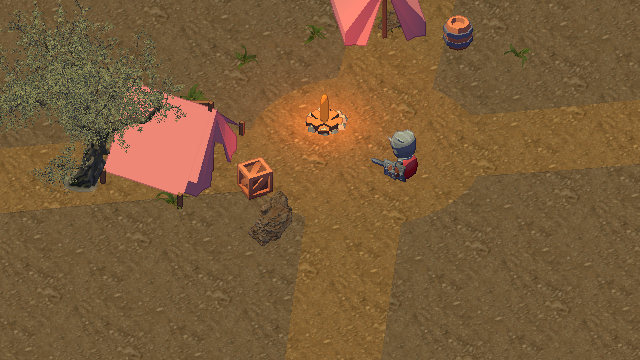
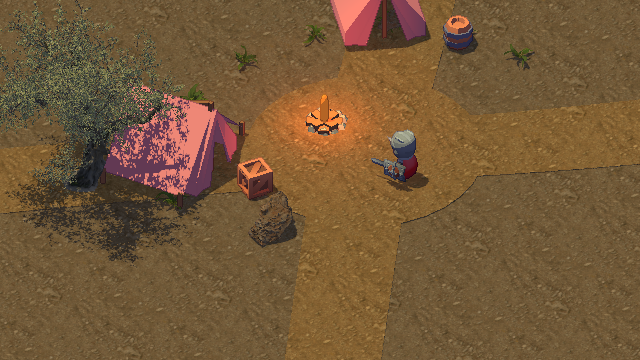
Correct planar reflection UVs, restore light shadows and add fading snow footprints

diff --git a/Assets/Editor/ReflectionShadowVerification.cs b/Assets/Editor/ReflectionShadowVerification.cs
@@ -1,0 +1,53 @@
+using System.IO;
+using System.Linq;
+using UnityEditor.SceneManagement;
+using UnityEngine;
+namespace PixelArtLab.Editor
+{
+    public static class ReflectionShadowVerification
+    {
+        public static void Run()
+        {
+            EditorSceneManager.OpenScene(DetailedWoodlandBuilder.ScenePath);var env=Object.FindFirstObjectByType<WorldEnvironment>();env.SetWeather(ValleyWeather.Rain,true);env.hour=13;env.Apply();
+            Debug.Log($"SHADOW_DIAG distance={QualitySettings.shadowDistance} quality={QualitySettings.shadows} light={env.sun.shadows} camera={env.worldCamera.transform.position}");
+            foreach(var r in env.player.GetComponentsInChildren<Renderer>())Debug.Log($"PLAYER_RENDER {r.name} layer={r.gameObject.layer} enabled={r.enabled} shadows={r.shadowCastingMode} bounds={r.bounds}");
+            var reflection=Object.FindObjectsByType<DetailWaterReflection>(FindObjectsSortMode.None).First(r=>r.textureProperty=="_PuddleReflection");
+            env.worldCamera.aspect=640f/360;env.worldCamera.orthographicSize=5;env.worldCamera.transform.position=env.player.transform.position+Vector3.up-env.worldCamera.transform.forward*45;reflection.Refresh();
+            var rt=reflection.ReflectionTexture;var before=RenderTexture.active;RenderTexture.active=rt;var t=new Texture2D(rt.width,rt.height,TextureFormat.RGB24,false);t.ReadPixels(new Rect(0,0,rt.width,rt.height),0,0);t.Apply();File.WriteAllBytes("Previews/34-Reflection-Diagnostic.png",t.EncodeToPNG());Object.DestroyImmediate(t);RenderTexture.active=before;
+            // Locate an isolated emissive marker's actual texture coordinates versus CPU projection.
+            var marker=GameObject.CreatePrimitive(PrimitiveType.Cube);marker.transform.position=env.player.transform.position+new Vector3(1,2,0);marker.transform.localScale=Vector3.one*.25f;
+            var mat=new Material(Shader.Find("Unlit/Color"));mat.color=Color.magenta;marker.GetComponent<Renderer>().sharedMaterial=mat;reflection.Refresh();
+            RenderTexture.active=rt;t=new Texture2D(rt.width,rt.height,TextureFormat.RGB24,false);t.ReadPixels(new Rect(0,0,rt.width,rt.height),0,0);t.Apply();var pixels=t.GetPixels32();float x=0,y=0,n=0;
+            for(int j=0;j<rt.height;j++)for(int i=0;i<rt.width;i++){var c=pixels[j*rt.width+i];if(c.r>200&&c.b>200&&c.g<80){x+=i;y+=j;n++;}}
+            var mirror=Resources.FindObjectsOfTypeAll<Camera>().First(c=>c.name=="Detail Water Reflection Camera"&&c.targetTexture==rt);var cpu=mirror.WorldToViewportPoint(marker.transform.position);var gpu=GL.GetGPUProjectionMatrix(mirror.projectionMatrix,true)*mirror.worldToCameraMatrix*new Vector4(marker.transform.position.x,marker.transform.position.y,marker.transform.position.z,1);
+            Debug.Log($"REFLECTION_UV actual=({x/n/rt.width},{y/n/rt.height}) cpu={cpu} gpu=({gpu.x/gpu.w*.5f+.5f},{gpu.y/gpu.w*.5f+.5f}) count={n}");
+            var corrected=GL.GetGPUProjectionMatrix(mirror.projectionMatrix,false)*mirror.worldToCameraMatrix*new Vector4(marker.transform.position.x,marker.transform.position.y,marker.transform.position.z,1);
+            if(n<1||Mathf.Abs(x/n/rt.width-(corrected.x/corrected.w*.5f+.5f))>.01f||Mathf.Abs(y/n/rt.height-(corrected.y/corrected.w*.5f+.5f))>.01f)throw new System.Exception("Reflection coordinate calibration failed");
+            RenderTexture.active=before;Object.DestroyImmediate(t);Object.DestroyImmediate(marker);Object.DestroyImmediate(mat);
+            reflection.Refresh();var original=Read(rt);var character=env.player.GetComponentsInChildren<Renderer>();foreach(var r in character)r.enabled=false;reflection.Refresh();int characterPixels=Difference(original,Read(rt));foreach(var r in character)r.enabled=true;
+            if(characterPixels<50)throw new System.Exception("Character missing from reflection");
+            env.SetWeather(ValleyWeather.Clear,true);env.hour=10;env.Apply();var target=new RenderTexture(640,360,24);target.Create();env.worldCamera.targetTexture=target;
+            var shadows=Render(env.worldCamera);foreach(var r in character)r.shadowCastingMode=UnityEngine.Rendering.ShadowCastingMode.Off;int playerShadow=Difference(shadows,Render(env.worldCamera));foreach(var r in character)r.shadowCastingMode=UnityEngine.Rendering.ShadowCastingMode.On;
+            var tree=GameObject.Find("Poly Haven Detailed Woodland").GetComponentsInChildren<Renderer>().Where(r=>r.name.Contains("island_tree")).ToArray();foreach(var r in tree)r.shadowCastingMode=UnityEngine.Rendering.ShadowCastingMode.Off;int treeShadow=Difference(shadows,Render(env.worldCamera));foreach(var r in tree)r.shadowCastingMode=UnityEngine.Rendering.ShadowCastingMode.On;
+            if(playerShadow<10||treeShadow<100)throw new System.Exception($"Shadow missing: character={playerShadow} tree={treeShadow}");
+            env.hour=0;env.Apply();if(!env.torches.Any(l=>l&&l.shadows!=LightShadows.None))throw new System.Exception("No local torch shadow enabled");var night=Render(env.worldCamera);foreach(var l in env.torches)if(l)l.shadows=LightShadows.None;int torchShadow=Difference(night,Render(env.worldCamera));if(torchShadow<10)throw new System.Exception("Torch shadows not visible: "+torchShadow);env.hour=10;env.Apply();
+            OpenWorldSceneBuilder.Capture(env.worldCamera,"Previews/35-Character-Tree-Shadows.png");env.worldCamera.targetTexture=null;target.Release();Object.DestroyImmediate(target);
+            env.SetWeather(ValleyWeather.Rain,true);env.hour=13;env.Apply();Vector3 toward= -env.worldCamera.transform.forward;toward.y=0;toward.Normalize();bool found=false;
+            for(float px=-10;px<10&&!found;px+=.5f)for(float pz=-10;pz<10&&!found;pz+=.5f)
+            {
+                Vector3 p=new Vector3(px,OpenWorldSceneBuilder.Height(px,pz)+.1f,pz);if(!PuddleSurface.Ground(p,out var hit)||PuddleSurface.Coverage(hit.point,hit.normal,1,0)<.7f)continue;
+                bool fits=true;for(float d=.5f;d<=2;d+=.5f){var q=hit.point+toward*d;if(!PuddleSurface.Ground(q,out var h)||PuddleSurface.Coverage(h.point,h.normal,1,0)<.6f)fits=false;}
+                if(fits){env.player.transform.position=hit.point+Vector3.up*.04f;found=true;}
+            }
+            if(!found)throw new System.Exception("No pool suitable for character reflection test");
+            env.worldCamera.orthographicSize=4.5f;env.worldCamera.transform.position=env.player.transform.position+Vector3.up*.8f-env.worldCamera.transform.forward*45;
+            target=new RenderTexture(640,360,24);target.Create();env.worldCamera.targetTexture=target;reflection.Refresh();var surfaceWith=Render(env.worldCamera);
+            foreach(var r in character)r.enabled=false;reflection.Refresh();foreach(var r in character)r.enabled=true;int visibleCharacter=Difference(surfaceWith,Render(env.worldCamera));if(visibleCharacter<50)throw new System.Exception("Character reflection absent on actual puddle surface: "+visibleCharacter);
+            reflection.Refresh();OpenWorldSceneBuilder.Capture(env.worldCamera,"Previews/37-Corrected-Character-Reflection.png");env.worldCamera.targetTexture=null;target.Release();Object.DestroyImmediate(target);
+            File.WriteAllText("Previews/Reflection-Shadow-Verification.txt",$"REFLECTION_SHADOW_SUCCESS\nReflection marker coordinates match within 1%: PASS\nCharacter reflection texture pixels: {characterPixels}\nCharacter reflection on actual puddle pixels: {visibleCharacter}\nCharacter shadow pixels: {playerShadow}\nTree shadow pixels: {treeShadow}\nNight torch shadow pixels: {torchShadow}\nShadow distance: {QualitySettings.shadowDistance}m\nNO PLAYER BUILD\n");Debug.Log("REFLECTION_SHADOW_SUCCESS");
+        }
+        static Color32[] Read(RenderTexture rt){var old=RenderTexture.active;RenderTexture.active=rt;var t=new Texture2D(rt.width,rt.height,TextureFormat.RGB24,false);t.ReadPixels(new Rect(0,0,rt.width,rt.height),0,0);t.Apply();var p=t.GetPixels32();Object.DestroyImmediate(t);RenderTexture.active=old;return p;}
+        static Color32[] Render(Camera c){c.Render();return Read(c.targetTexture);}
+        static int Difference(Color32[] a,Color32[] b)=>a.Zip(b,(x,y)=>Mathf.Abs(x.r-y.r)+Mathf.Abs(x.g-y.g)+Mathf.Abs(x.b-y.b)>8?1:0).Sum();
+    }
+}

diff --git a/Assets/Scripts/SnowFootprints.cs b/Assets/Scripts/SnowFootprints.cs
@@ -1,0 +1,79 @@
+using System.Collections.Generic;
+using UnityEngine;
+using UnityEngine.Rendering;
+
+namespace PixelArtLab
+{
+    [DefaultExecutionOrder(135)]
+    public sealed class SnowFootprints : MonoBehaviour
+    {
+        public ExplorerMotor player;
+        public WorldEnvironment environment;
+        [Range(0,1)]public float minimumSnow=.4f;
+        public float lifetime=18;
+        public int EmittedCount {get;private set;}
+        struct Print {public Vector3 position,normal,forward;public float birth;}
+        readonly Print[] prints=new Print[128];
+        readonly List<Vector3> vertices=new List<Vector3>();readonly List<Color> colors=new List<Color>();readonly List<int> indices=new List<int>();
+        Mesh mesh;Material material;int next,foot;float distance;Vector3 previous;bool initialized,grounded;
+        void Ensure()
+        {
+            if(mesh)return;
+            mesh=new Mesh{name="Fading snow boot impressions"};mesh.MarkDynamic();
+            var filter=GetComponent<MeshFilter>();if(!filter)filter=gameObject.AddComponent<MeshFilter>();filter.sharedMesh=mesh;
+            var renderer=GetComponent<MeshRenderer>();if(!renderer)renderer=gameObject.AddComponent<MeshRenderer>();
+            material=new Material(Shader.Find("PixelArtLab/Weather Particles")){hideFlags=HideFlags.HideAndDontSave};renderer.sharedMaterial=material;renderer.shadowCastingMode=ShadowCastingMode.Off;renderer.receiveShadows=false;gameObject.layer=13;
+            for(int i=0;i<prints.Length;i++)prints[i].birth=-1000;
+        }
+        void LateUpdate()
+        {
+            Ensure();if(!player||!environment)return;
+            Vector3 current=player.transform.position,delta=current-previous;delta.y=0;
+            if(!initialized){previous=current;grounded=player.Grounded;initialized=true;delta=Vector3.zero;}
+            if(delta.magnitude>4)distance=0;
+            else if(player.Grounded)
+            {
+                Vector3 direction=delta.sqrMagnitude>.0001f?delta.normalized:player.visual.forward;
+                if(!grounded){TryPlace(current-Vector3.Cross(Vector3.up,direction)*.14f,direction);TryPlace(current+Vector3.Cross(Vector3.up,direction)*.14f,direction);}
+                if(player.HorizontalSpeed>.3f&&delta.magnitude>.001f)
+                {
+                    distance+=delta.magnitude;
+                    if(distance>(player.HorizontalSpeed>5?1.1f:.8f))
+                    {distance=0;TryPlace(current+Vector3.Cross(Vector3.up,direction)*((foot++%2==0?1:-1)*.14f),direction);}
+                }
+                else distance=0;
+            }
+            previous=current;grounded=player.Grounded;Refresh(Time.time);
+        }
+        public bool TryPlace(Vector3 position,Vector3 forward)
+        {
+            if(!environment||environment.snowCover<minimumSnow||!PuddleSurface.Ground(position,out var hit)||hit.normal.y<.88f)return false;
+            Ensure();prints[next]=new Print{position=hit.point+hit.normal*.058f,normal=hit.normal,forward=Vector3.ProjectOnPlane(forward,hit.normal).normalized,birth=Time.time};next=(next+1)%prints.Length;EmittedCount++;return true;
+        }
+        public void Refresh(float now)
+        {
+            Ensure();vertices.Clear();colors.Clear();indices.Clear();
+            if(!environment)return;
+            foreach(var print in prints)
+            {
+                float age=now-print.birth;if(age<0||age>=lifetime)continue;
+                float opacity=(1-Mathf.SmoothStep(0,1,Mathf.InverseLerp(4,lifetime,age)))*Mathf.SmoothStep(0,1,Mathf.InverseLerp(.15f,.4f,environment.snowCover));
+                if(opacity<.005f)continue;
+                Vector3 forward=print.forward.sqrMagnitude>.5f?print.forward:Vector3.forward,right=Vector3.Cross(print.normal,forward).normalized;
+                Color color=new Color(.32f,.43f,.56f,opacity*.85f);
+                Vector3 toe=print.position+forward*.08f;
+                for(int i=0;i<10;i++)
+                {
+                    float a=i*Mathf.PI/5,b=(i+1)*Mathf.PI/5;
+                    Triangle(toe,toe+right*(Mathf.Cos(a)*.09f)+forward*(Mathf.Sin(a)*.135f),toe+right*(Mathf.Cos(b)*.09f)+forward*(Mathf.Sin(b)*.135f),color);
+                }
+                Vector3 heel=print.position-forward*.13f;Vector3 x=right*.07f,y=forward*.055f;
+                Triangle(heel-x-y,heel+x-y,heel+x+y,color);Triangle(heel-x-y,heel+x+y,heel-x+y,color);
+            }
+            mesh.Clear();mesh.SetVertices(vertices);mesh.SetColors(colors);mesh.SetTriangles(indices,0);mesh.RecalculateBounds();
+        }
+        void Triangle(Vector3 a,Vector3 b,Vector3 c,Color color)
+        {int i=vertices.Count;vertices.Add(a);vertices.Add(b);vertices.Add(c);colors.Add(color);colors.Add(color);colors.Add(color);indices.Add(i);indices.Add(i+1);indices.Add(i+2);}
+        void OnDisable(){if(mesh){if(Application.isPlaying)Destroy(mesh);else DestroyImmediate(mesh);}if(material){if(Application.isPlaying)Destroy(material);else DestroyImmediate(material);}mesh=null;material=null;initialized=false;}
+    }
+}

diff --git a/Assets/Editor/SnowFootprintVerification.cs b/Assets/Editor/SnowFootprintVerification.cs
@@ -1,0 +1,41 @@
+using System;
+using System.IO;
+using System.Linq;
+using UnityEditor;
+using UnityEditor.SceneManagement;
+using UnityEngine;
+namespace PixelArtLab.Editor
+{
+    public static class SnowFootprintVerification
+    {
+        static int stage,baseline;static float started;static double deadline;static WorldEnvironment env;static SnowFootprints prints;static ExplorerMotor player;
+        public static void Play(){EditorSceneManager.OpenScene(DetailedWoodlandBuilder.ScenePath);SessionState.SetBool("SnowPrint.Verify",true);EditorApplication.isPlaying=true;}
+        [InitializeOnLoadMethod]static void Resume(){if(SessionState.GetBool("SnowPrint.Verify",false)){stage=0;deadline=EditorApplication.timeSinceStartup+60;EditorApplication.update+=Tick;}}
+        static void Require(bool c,string message){if(!c)throw new Exception(message);}
+        static void Tick()
+        {
+            if(!Application.isPlaying)return;
+            try
+            {
+                Require(EditorApplication.timeSinceStartup<deadline,"Snow test timeout stage "+stage);
+                if(stage==0)
+                {
+                    env=UnityEngine.Object.FindFirstObjectByType<WorldEnvironment>();prints=UnityEngine.Object.FindFirstObjectByType<SnowFootprints>();player=env.player;Require(prints,"Footprint component missing");
+                    env.runClock=false;env.hour=13;env.SetWeather(ValleyWeather.Snow,true);env.snowCover=.39f;env.Apply();Require(!prints.TryPlace(player.transform.position,Vector3.forward),"Marks below threshold");env.snowCover=.4f;env.Apply();Require(prints.TryPlace(player.transform.position,Vector3.forward),"No mark at 40% snow");
+                    env.snowCover=.95f;env.Apply();player.externalControl=true;player.externalMove=Vector2.zero;player.Teleport(new Vector3(1,OpenWorldSceneBuilder.Height(1,-12)+.1f,-12));started=Time.time;stage=1;
+                }
+                else if(stage==1&&Time.time-started>.8f){baseline=prints.EmittedCount;player.externalMove=Vector2.up;started=Time.time;stage=2;}
+                else if(stage==2&&Time.time-started>2.2f)
+                {
+                    player.externalMove=Vector2.zero;Require(prints.EmittedCount>=baseline+6,"Walking did not leave a trail");prints.Refresh(Time.time);var mesh=prints.GetComponent<MeshFilter>().sharedMesh;Require(mesh.vertexCount>100,"Footprints not rendered");
+                    OpenWorldSceneBuilder.Capture(env.worldCamera,"Previews/36-Snow-Footprint-Trail.png");float initial=mesh.colors.Average(c=>c.a);prints.Refresh(Time.time+11);Require(mesh.colors.Length>0&&mesh.colors.Average(c=>c.a)<initial*.8f,"Prints did not fade");prints.Refresh(Time.time+prints.lifetime+1);Require(mesh.vertexCount==0,"Expired marks remain");
+                    env.SetWeather(ValleyWeather.Clear,true);prints.Refresh(Time.time);Require(mesh.vertexCount==0&&!prints.TryPlace(player.transform.position,Vector3.forward),"Marks survive melted snow");
+                    var display=Resources.FindObjectsOfTypeAll<Camera>().FirstOrDefault(c=>c.name=="Pixel Display Clear Camera");Require(display&&display.enabled&&!display.targetTexture,"No display camera while pixel camera renders offscreen");
+                    Finish(true,"40% threshold; walking trail; gradual fade and expiry; melting removes marks; display camera active: PASS");
+                }
+            }
+            catch(Exception e){Finish(false,e.ToString());}
+        }
+        static void Finish(bool success,string message){EditorApplication.update-=Tick;SessionState.SetBool("SnowPrint.Verify",false);string result=(success?"SNOW_FOOTPRINT_SUCCESS":"SNOW_FOOTPRINT_FAILED")+"\n"+message+"\nNO PLAYER BUILD\n";File.WriteAllText("Previews/Snow-Footprint-Verification.txt",result);Debug.Log(result);EditorApplication.isPlaying=false;EditorApplication.Exit(success?0:1);}
+    }
+}

diff --git a/Assets/Scripts/WorldEnvironment.cs b/Assets/Scripts/WorldEnvironment.cs
@@ -26,9 +26,13 @@ namespace PixelArtLab
         public string ClockLabel=>$"{Mathf.FloorToInt(hour):00}:{Mathf.FloorToInt((hour%1)*60):00}";
         void OnEnable()
         {
+            // Follow camera sits 45m away; a 42m shadow distance cannot reach the ground.
+            QualitySettings.shadows=ShadowQuality.All;QualitySettings.shadowDistance=120;
+            QualitySettings.shadowResolution=ShadowResolution.VeryHigh;QualitySettings.shadowCascades=4;QualitySettings.pixelLightCount=4;
             if(!sun)sun=RenderSettings.sun;
             if(!worldCamera)worldCamera=Camera.main;
             if(sun){originalSunColor=sun.color;originalIntensity=sun.intensity;originalRotation=sun.transform.rotation;cached=true;}
+            if(sun){sun.shadows=LightShadows.Hard;sun.shadowStrength=.9f;sun.shadowBias=.025f;sun.shadowNormalBias=.10f;sun.renderMode=LightRenderMode.ForcePixel;}
             if(worldCamera)originalBackground=worldCamera.backgroundColor;
             Apply();
         }
@@ -86,7 +90,14 @@ namespace PixelArtLab
             Shader.SetGlobalFloat("_LabWaterTime",animationTime);
             Shader.SetGlobalFloat("_LabWaterMotion",waterEnabled?1:0);
             Shader.SetGlobalFloat("_LabCloudCover",Mathf.Clamp01(.12f+cloud));
-            if(torches!=null)foreach(var torch in torches)if(torch)torch.intensity=Mathf.Lerp(4.0f,2.1f,Daylight);
+            int localShadowLights=0;
+            if(torches!=null)foreach(var torch in torches)if(torch)
+            {
+                torch.intensity=Mathf.Lerp(4.0f,2.1f,Daylight);
+                bool nearby=player&&Vector3.Distance(player.transform.position,torch.transform.position)<torch.range+2;
+                bool cast=nearby&&localShadowLights<2;if(cast)localShadowLights++;
+                torch.shadows=cast?LightShadows.Hard:LightShadows.None;torch.shadowStrength=.85f;torch.shadowBias=.025f;torch.shadowNormalBias=.1f;torch.shadowCustomResolution=512;
+            }
             Color background=Color.Lerp(new Color(.035f,.055f,.105f),new Color(.32f,.43f,.48f),Daylight);
             background=Color.Lerp(background,new Color(.35f,.41f,.47f),cloud*.55f);
             if(worldCamera)worldCamera.backgroundColor=background;

diff --git a/Assets/Scripts/ExplorationCamera.cs b/Assets/Scripts/ExplorationCamera.cs
@@ -13,6 +13,7 @@ namespace PixelArtLab
         public Vector3 lookOffset;
         Camera cameraComponent;
         RenderTexture buffer;
+        Camera displayClearCamera;
         Vector3 focus,velocity;
         bool initialized;
         public Rect OutputRect {get; private set;}
@@ -46,6 +47,14 @@ namespace PixelArtLab
             local.y=(Mathf.Round(local.y*pixelsPerUnit-(height&1)*.5f)+(height&1)*.5f)/pixelsPerUnit;
             transform.SetPositionAndRotation(rotation*local,rotation);cameraComponent.orthographicSize=height/(2f*pixelsPerUnit);
             cameraComponent.targetTexture=pixelated?buffer:null;Shader.SetGlobalFloat("_LabContinuous",toon?0:1);
+            // Keep a real display camera active while the scene camera renders offscreen.
+            // The existing OnGUI draws the integer-scaled pixel buffer over its black clear.
+            if(pixelated&&!displayClearCamera)
+            {
+                var display=new GameObject("Pixel Display Clear Camera"){hideFlags=HideFlags.HideAndDontSave};displayClearCamera=display.AddComponent<Camera>();
+                displayClearCamera.cullingMask=0;displayClearCamera.clearFlags=CameraClearFlags.SolidColor;displayClearCamera.backgroundColor=Color.black;displayClearCamera.depth=-100;
+            }
+            if(displayClearCamera)displayClearCamera.enabled=pixelated;
             OutputRect=new Rect((Screen.width-width*scale)*.5f,(Screen.height-height*scale)*.5f,width*scale,height*scale);
         }
         void OnGUI()
@@ -54,6 +63,6 @@ namespace PixelArtLab
             if(pixelated&&buffer){GUI.DrawTexture(new Rect(0,0,Screen.width,Screen.height),Texture2D.blackTexture);GUI.DrawTexture(OutputRect,buffer,ScaleMode.StretchToFill);}
         }
         void Release(){if(buffer){buffer.Release();Destroy(buffer);buffer=null;}}
-        void OnDisable(){if(cameraComponent)cameraComponent.targetTexture=null;Release();Shader.SetGlobalFloat("_LabContinuous",0);}
+        void OnDisable(){if(cameraComponent)cameraComponent.targetTexture=null;Release();if(displayClearCamera)Destroy(displayClearCamera.gameObject);Shader.SetGlobalFloat("_LabContinuous",0);}
     }
 }

diff --git a/Assets/Scripts/DetailWaterReflection.cs b/Assets/Scripts/DetailWaterReflection.cs
@@ -41,12 +41,15 @@ namespace PixelArtLab
                 mirror.projectionMatrix=source.CalculateObliqueMatrix(plane);
                 GL.invertCulling=!previous;Shader.SetGlobalFloat("_LabReflectionPass",1);mirror.Render();waterMaterial.SetTexture(textureProperty,texture);
                 if(additionalMaterials!=null)foreach(var material in additionalMaterials)if(material)material.SetTexture(textureProperty,texture);
+                // Texture UVs use bottom-left viewport space; render-into-texture GPU projection
+                // flips Y on D3D and would sample the opposite side of this reflection.
+                var projection=GL.GetGPUProjectionMatrix(mirror.projectionMatrix,false)*mirror.worldToCameraMatrix;
                 if(textureProperty=="_PuddleReflection")
                 {
-                    var projection=GL.GetGPUProjectionMatrix(mirror.projectionMatrix,true)*mirror.worldToCameraMatrix;
                     waterMaterial.SetMatrix("_PuddleProjection",projection);waterMaterial.SetFloat("_PuddleCaptureHeight",waterHeight);
                     if(additionalMaterials!=null)foreach(var material in additionalMaterials)if(material){material.SetMatrix("_PuddleProjection",projection);material.SetFloat("_PuddleCaptureHeight",waterHeight);}
                 }
+                else{waterMaterial.SetMatrix("_DetailProjection",projection);waterMaterial.SetFloat("_DetailCaptureHeight",waterHeight);}
             }
             finally{GL.invertCulling=previous;Shader.SetGlobalFloat("_LabReflectionPass",previousPass);rendering=false;}
         }

diff --git a/Assets/Editor/RainPuddleUpgrade.cs b/Assets/Editor/RainPuddleUpgrade.cs
@@ -21,6 +21,8 @@ namespace PixelArtLab.Editor
             reflection.source=camera;reflection.waterMaterial=soil;reflection.additionalMaterials=new[]{trail};reflection.textureProperty="_PuddleReflection";reflection.waterHeight=1.1f;
             var env=UnityEngine.Object.FindFirstObjectByType<WorldEnvironment>();reflection.groundAnchor=env.player.transform;
             var steps=UnityEngine.Object.FindFirstObjectByType<PuddleFootsteps>();if(!steps)steps=new GameObject("Puddle footstep rings and splashes").AddComponent<PuddleFootsteps>();steps.player=env.player;steps.environment=env;
+            var snow=UnityEngine.Object.FindFirstObjectByType<SnowFootprints>();if(!snow)snow=new GameObject("Fading snow footprints").AddComponent<SnowFootprints>();snow.player=env.player;snow.environment=env;
+            foreach(var renderer in env.player.GetComponentsInChildren<Renderer>(true)){renderer.shadowCastingMode=UnityEngine.Rendering.ShadowCastingMode.On;renderer.receiveShadows=true;if(renderer is SkinnedMeshRenderer skin)skin.updateWhenOffscreen=true;}
             return reflection;
         }
         static Color32[] Render(Camera camera)

diff --git a/Docs/Semi-Real-Woodland.md b/Docs/Semi-Real-Woodland.md
@@ -36,6 +36,14 @@ source-files.json은 공개 API의 다운로드 출처 기록이다.
 
 반사 카메라는 플레이어 발밑 지면의 높이를 따라가고, 높이가 다른 웅덩이의 투영을 보정한다. 근처 반사를 우선하는 한 장의 평면 반사이므로 멀리 있는 서로 다른 높이의 반사는 근사 표현이다. 물 유입·침식 시뮬레이션은 없으며, 물이 충분할 때만 추가 반사 카메라가 동작한다.
 
+반사 좌표는 GPU의 렌더 텍스처 Y 반전을 중복 적용하지 않는 뷰포트 좌표로 통일했다. 기존에는 텍스처의 반대쪽을 읽어 물체가 엉뚱한 곳에 보이고 캐릭터 반사가 사라졌다. 실제 색상 표식 위치와 투영 좌표를 비교하고, 캐릭터를 반사 카메라에서만 숨겼을 때 웅덩이 화면이 달라지는지 검증한다.
+
+태양·달 그림자의 표시 거리는 120m, 4개 캐스케이드, Very High 해상도로 설정한다. 기존 42m는 약 45m 떨어진 추적 카메라에서 지면을 포함하지 못했다. 캐릭터는 그림자 캐스팅·수신과 화면 밖 스킨 갱신을 활성화한다. 픽셀 버퍼를 표시할 때 별도 빈 화면 카메라로 검정 여백을 지워 Game View의 “No cameras rendering” 표시도 방지한다.
+
+가까운 횃불도 그림자를 만든다. 플레이어가 광원 범위 +2m 안에 있을 때 최대 두 개의 횃불에 512 해상도의 포인트 그림자를 활성화해, 멀리 있는 모든 횃불을 계속 렌더링하지 않는다.
+
+적설량 40%부터 걸음마다 좌우 부츠 앞부분·뒤꿈치 모양을 눈 위에 남긴다. 4초간 유지한 뒤 서서히 흐려지고 생성 후 18초에 제거된다. 눈이 녹으면 기존 자국도 지워진다. 최대 128개를 순환 재사용하며, 공중 이동에는 생성하지 않고 착지에는 두 발 자국을 남긴다.
+
 완전한 Standard/PBR 셰이딩이나 유체 시뮬레이션은 아니다. GGX는 직접광 근사이며 실시간 평면 반사로 수면의 주변 풍경을 보완한다.
 
 ## 비교 조작
@@ -64,4 +72,6 @@ source-files.json은 공개 API의 다운로드 출처 기록이다.
 - 결과: `Previews/Detailed-Woodland-Verification.txt`, `Previews/Detailed-Woodland-Playtest.txt`.
 - 맵 전역 분포 검증: `PixelArtLab.Editor.PuddleWorldVerification.Distribution`.
 - 발 상호작용 Play 검증: `PixelArtLab.Editor.PuddleWorldVerification.Play`.
+- 반사 좌표·캐릭터 반사·나무/캐릭터/횃불 그림자 검증: `PixelArtLab.Editor.ReflectionShadowVerification.Run`.
+- 적설 임계값·실제 걷기·자국 소멸·화면 카메라 검증: `PixelArtLab.Editor.SnowFootprintVerification.Play`.
 - 실행 파일은 빌드하지 않았다.
